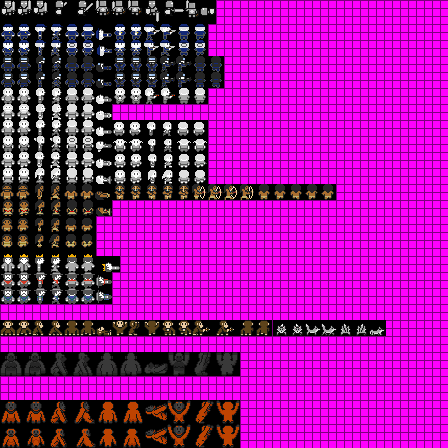
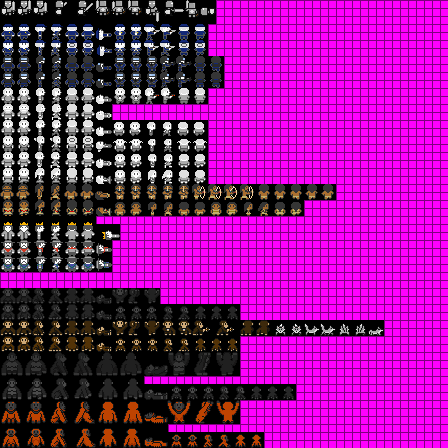
Ape Update
Added all types of Apes: Bonobos, Chimpanzees, Gorillas and Orangutans
complete with males, females and children

Changed region(s): [[0.0, 0.4375, 0.875, 1.0]]

diff --git a/src/javajesus/entities/npcs/aggressive/NativeAmerican.java b/src/javajesus/entities/npcs/aggressive/NativeAmerican.java
@@ -49,13 +49,13 @@ public class NativeAmerican extends Shooter implements Type {
 			break;
 		}
 		case BOY: {
-			xTile = 0;
-			yTile = 27;
+			xTile = 14;
+			yTile = 25;
 			break;
 		}
 		case GIRL: {
-			xTile = 0;
-			yTile = 29;
+			xTile = 26;
+			yTile = 25;
 			break;
 		}
 		default: // MALE

diff --git a/src/javajesus/entities/npcs/Panchombre.java b/src/javajesus/entities/npcs/Panchombre.java
@@ -16,7 +16,7 @@ public class Panchombre extends NPC {
 	 */
 	public Panchombre(Level level, int x, int y) {
 		super(level, "Panchombre", x, y, 1, 16, 16, 200, new int[] { 0xFF111111,
-				0xFF715B17, 0xFFEDC5AB }, 0, 36, "", 0);
+				0xFF715B17, 0xFFEDC5AB }, 0, 32, "", 0);
 	}
 
 	@Override

diff --git a/src/javajesus/entities/npcs/Gaucho.java b/src/javajesus/entities/npcs/Gaucho.java
@@ -16,7 +16,7 @@ public class Gaucho extends NPC {
 	 */
 	public Gaucho(Level level, int x, int y) {
 		super(level, "Gaucho", x, y, 1, 16, 16, 200, new int[] { 0xFF111111,
-				0xFF715B17, 0xFFEDC5AB }, 0, 34, "", 0);
+				0xFF715B17, 0xFFEDC5AB }, 0, 30, "", 0);
 	}
 
 	@Override
